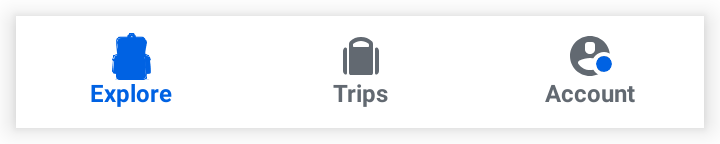
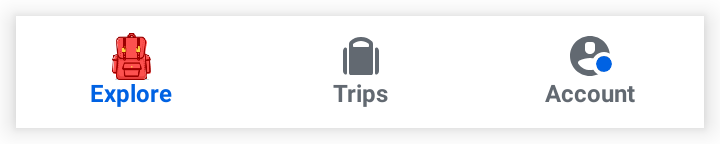
Generate component list

Changed region(s): [[0.1528, 0.2222, 0.2139, 0.5556]]

diff --git a/backpack-compose/src/main/kotlin/net/skyscanner/backpack/compose/bottomnav/BpkBottomNav.kt b/backpack-compose/src/main/kotlin/net/skyscanner/backpack/compose/bottomnav/BpkBottomNav.kt
@@ -22,6 +22,7 @@ package net.skyscanner.backpack.compose.bottomnav
 import androidx.compose.animation.animateColorAsState
 import androidx.compose.animation.core.FastOutSlowInEasing
 import androidx.compose.animation.core.tween
+import androidx.compose.foundation.Image
 import androidx.compose.foundation.background
 import androidx.compose.foundation.border
 import androidx.compose.foundation.interaction.MutableInteractionSource
@@ -67,6 +68,7 @@ sealed interface BpkBottomNavItem {
     val title: String
     val id: Int
     val showBadge: Boolean
+    val shouldTint: Boolean
 }
 
 fun BpkBottomNavItem(
@@ -74,16 +76,18 @@ fun BpkBottomNavItem(
     id: Int,
     icon: BpkIcon,
     showBadge: Boolean = false,
+    shouldTint: Boolean = false,
 ): BpkBottomNavItem =
-    IconBottomNavItem(title, id, showBadge, icon)
+    IconBottomNavItem(title, id, showBadge, shouldTint, icon)
 
 fun BpkBottomNavItem(
     title: String,
     id: Int,
     painter: Painter,
     showBadge: Boolean = false,
+    shouldTint: Boolean = false,
 ): BpkBottomNavItem =
-    PainterBottomNavItem(title, id, showBadge, painter)
+    PainterBottomNavItem(title, id, showBadge, shouldTint, painter)
 
 @Composable
 fun BpkBottomNav(
@@ -179,15 +183,25 @@ private fun BottomNavIcon(
                 icon = tabItem.icon,
                 contentDescription = null,
                 size = BpkIconSize.Large,
-                tint = tint,
+                tint = if (tabItem.shouldTint) tint else Color.Unspecified,
             )
 
-            is PainterBottomNavItem -> Icon(
-                modifier = Modifier.height(BpkSpacing.Lg),
-                painter = tabItem.painter,
-                contentDescription = null,
-                tint = tint,
-            )
+            is PainterBottomNavItem -> {
+                if (tabItem.shouldTint) {
+                    Icon(
+                        modifier = Modifier.height(BpkSpacing.Lg),
+                        painter = tabItem.painter,
+                        contentDescription = null,
+                        tint = tint,
+                    )
+                } else {
+                    Image(
+                        modifier = Modifier.height(BpkSpacing.Lg),
+                        painter = tabItem.painter,
+                        contentDescription = null,
+                    )
+                }
+            }
         }
         if (tabItem.showBadge) {
             NotificationDot(
@@ -214,6 +228,7 @@ private data class IconBottomNavItem(
     override val title: String,
     override val id: Int,
     override val showBadge: Boolean,
+    override val shouldTint: Boolean,
     val icon: BpkIcon,
 ) : BpkBottomNavItem
 
@@ -221,5 +236,6 @@ private data class PainterBottomNavItem(
     override val title: String,
     override val id: Int,
     override val showBadge: Boolean,
+    override val shouldTint: Boolean,
     val painter: Painter,
 ) : BpkBottomNavItem

diff --git a/app/src/main/java/net/skyscanner/backpack/demo/compose/BottomNavStory.kt b/app/src/main/java/net/skyscanner/backpack/demo/compose/BottomNavStory.kt
@@ -64,17 +64,20 @@ fun BottomNavSample(
                 painter = painterResource(id = R.drawable.sample_icon),
                 title = stringResource(R.string.bottom_nav_explore),
                 id = 1,
+                shouldTint = false, // Don't tint bitmap images
             ),
             BpkBottomNavItem(
                 icon = BpkIcon.Trips,
                 title = stringResource(R.string.bottom_nav_trips),
                 id = 2,
+                shouldTint = true, // Tint regular icons
             ),
             BpkBottomNavItem(
                 icon = BpkIcon.AccountCircle,
                 title = stringResource(R.string.navigation_account),
                 id = 3,
                 showBadge = true,
+                shouldTint = true, // Tint regular icons
             ),
         ),
         selectedItemId = selectedItemId,
